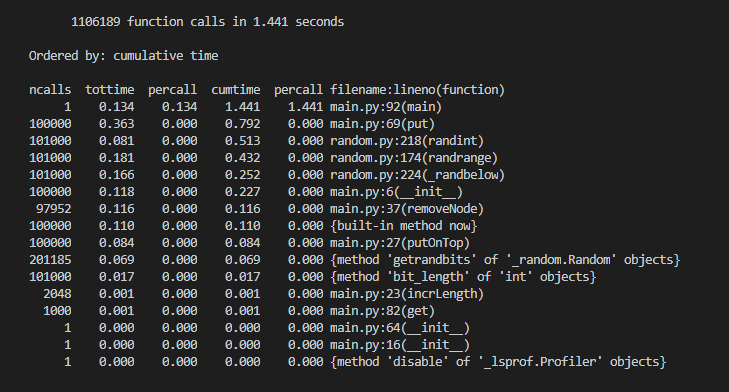
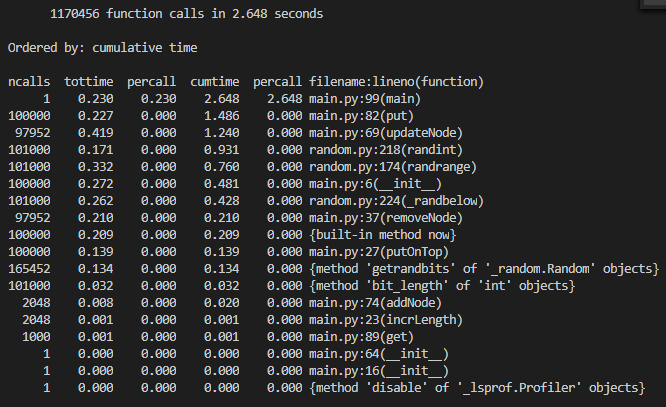
finish lru, i guess

Changed region(s): [[0.0, 0.1837, 0.991, 0.9796], [0.0, 0.0, 0.4805, 0.1531], [0.961, 0.0, 1.0, 0.0306]]

diff --git a/_site/work/2019/07/24/implement-cache-lru-lfu.html b/_site/work/2019/07/24/implement-cache-lru-lfu.html
@@ -276,8 +276,10 @@ Với bảng phân tích như trên chúng ta dễ dàng chọn được cấu t
  <img src="/assets/img/blog/content/lru-code2.png" alt="Complicated process" />
 <img src="/assets/img/blog/content/lru-code3.PNG" alt="Complicated process" /></p>
 
-<h5> <u>Đánh giá:</u></h5>
-<p>Mình sẽ so sánh kết quả với implemet LRU chỉ bằng priority heap. Sử dụng thư viện <b>cProfile</b> và 100000 hành động put, 1000 hành động get như sau:
+<h5> <u>Đánh giá với implement bằng priority heap:</u></h5>
+<p>Sử dụng thư viện <b>cProfile</b> để đánh giá hiệu năng.<br />
+Cache chứa được 2048 phần tử, giá trị random từ 1 đến 5000, 100000 hành động put và 1000 hành động get.
+<br />
 <img src="/assets/img/blog/content/lru-compare.PNG" alt="Complicated process" />
 <br /><br />
 <u>HashTable + Double Linked List:</u>
@@ -289,7 +291,36 @@ Với bảng phân tích như trên chúng ta dễ dàng chọn được cấu t
 <br />
 <br />
 <img src="/assets/img/blog/content/lru-compare2.PNG" alt="Complicated process" /></p>
-<p> Bỏ thời gian thực hiện random một giá trị cho phần test. Để khách quan, chúng ta không lấy kết quả của hàm tìm kiếm vì với heap sẽ có O(n) ( vì giá trị tìm kiếm không phải là giá trị xây dựng heap ), mà chỉ so sánh thời gian thực hiện hàm xóa và duy trì tính đúng của heap.</p>
+<p> Bỏ thời gian thực hiện random một giá trị cho phần test và các hàm khởi tạo khác. Để khách quan, chúng ta không xét thời gian của hàm tìm kiếm vì với heap sẽ có O(n) ( vì giá trị tìm kiếm không phải là giá trị xây dựng heap ), mà chỉ so sánh thời gian thực hiện hàm xóa và duy trì tính đúng của heap.</p>
+<table style="border-collapse: collapse;">
+  <tr>
+    <th style="border: 1px solid black;  text-align: left; padding:5px; width:50%">Action</th>
+    <th style="border: 1px solid black;  text-align: left; padding:5px;">Double Linked List + Hash map</th>
+    <th style="border: 1px solid black;  text-align: left; padding:5px;">Priority Heap</th>
+  </tr>
+  <tr>
+    <td style="border: 1px solid black;  text-align: left; padding:5px; width:50%">removeNode + Heapify(for Heap)</td>
+    <td style="border: 1px solid black;  text-align: left; padding:5px;">0.21</td>
+    <td style="border: 1px solid black;  text-align: left; padding:5px;">3.216</td>
+  </tr>
+  <tr>
+    <td style="border: 1px solid black;  text-align: left; padding:5px; width:50%">updateNode + Heapify(for Heap)</td>
+    <td style="border: 1px solid black;  text-align: left; padding:5px;">1.24 </td>
+    <td style="border: 1px solid black;  text-align: left; padding:5px;">0.639</td>
+  </tr>
+  <tr>
+    <td style="border: 1px solid black;  text-align: left; padding:5px; width:50%">addNode</td>
+    <td style="border: 1px solid black;  text-align: left; padding:5px;">0.02</td>
+    <td style="border: 1px solid black;  text-align: left; padding:5px;">0.008</td>
+  </tr>
+   <tr>
+    <td style="border: 1px solid black;  text-align: left; padding:5px; width:50%">Heapify</td>
+    <td style="border: 1px solid black;  text-align: left; padding:5px;">0</td>
+    <td style="border: 1px solid black;  text-align: left; padding:5px;">3.670</td>
+  </tr>
+</table>
+<p><br />
+Heapify có độc phức tạp là O(logn). Vậy nên khi so sánh update và remove với HashMap + Double Linked List có O(1) thì thời gian chênh nhau khá lớn. Chỉ tính riêng Heapify đã chiếm thời gian nhiều nhất. Ở bài tiếp theo tôi sẽ giới thiệu <b> Least Frequently Used</b>.</p>
 
             </div>
             <div class="single-blog-bottom fix">

diff --git a/_posts/2019-07-24-implement-cache-lru-lfu.md b/_posts/2019-07-24-implement-cache-lru-lfu.md
@@ -94,8 +94,10 @@ Với bảng phân tích như trên chúng ta dễ dàng chọn được cấu t
  ![Complicated process](/assets/img/blog/content/lru-code2.png)
 ![Complicated process](/assets/img/blog/content/lru-code3.PNG)
 
-<h5> <u>Đánh giá:</u></h5>
-Mình sẽ so sánh kết quả với implemet LRU chỉ bằng priority heap. Sử dụng thư viện <b>cProfile</b> và 100000 hành động put, 1000 hành động get như sau:
+<h5> <u>Đánh giá với implement bằng priority heap:</u></h5>
+Sử dụng thư viện <b>cProfile</b> để đánh giá hiệu năng.<br>
+Cache chứa được 2048 phần tử, giá trị random từ 1 đến 5000, 100000 hành động put và 1000 hành động get.
+<br>
 ![Complicated process](/assets/img/blog/content/lru-compare.PNG)
 <br><br>
 <u>HashTable + Double Linked List:</u>
@@ -107,4 +109,33 @@ Mình sẽ so sánh kết quả với implemet LRU chỉ bằng priority heap. S
 <br>
 <br>
 ![Complicated process](/assets/img/blog/content/lru-compare2.PNG)
-<p> Bỏ thời gian thực hiện random một giá trị cho phần test. Để khách quan, chúng ta không lấy kết quả của hàm tìm kiếm vì với heap sẽ có O(n) ( vì giá trị tìm kiếm không phải là giá trị xây dựng heap ), mà chỉ so sánh thời gian thực hiện hàm xóa và duy trì tính đúng của heap.</p>
+<p> Bỏ thời gian thực hiện random một giá trị cho phần test và các hàm khởi tạo khác. Để khách quan, chúng ta không xét thời gian của hàm tìm kiếm vì với heap sẽ có O(n) ( vì giá trị tìm kiếm không phải là giá trị xây dựng heap ), mà chỉ so sánh thời gian thực hiện hàm xóa và duy trì tính đúng của heap.</p>
+<table style="border-collapse: collapse;">
+  <tr >
+    <th style="border: 1px solid black;  text-align: left; padding:5px; width:50%">Action</th>
+    <th style="border: 1px solid black;  text-align: left; padding:5px;">Double Linked List + Hash map</th>
+    <th style="border: 1px solid black;  text-align: left; padding:5px;">Priority Heap</th>
+  </tr>
+  <tr>
+    <td style="border: 1px solid black;  text-align: left; padding:5px; width:50%">removeNode + Heapify(for Heap)</td>
+    <td style="border: 1px solid black;  text-align: left; padding:5px;">0.21</td>
+    <td style="border: 1px solid black;  text-align: left; padding:5px;">3.216</td>
+  </tr>
+  <tr>
+    <td style="border: 1px solid black;  text-align: left; padding:5px; width:50%">updateNode + Heapify(for Heap)</td>
+    <td style="border: 1px solid black;  text-align: left; padding:5px;">1.24 </td>
+    <td style="border: 1px solid black;  text-align: left; padding:5px;">0.639</td>
+  </tr>
+  <tr>
+    <td style="border: 1px solid black;  text-align: left; padding:5px; width:50%">addNode</td>
+    <td style="border: 1px solid black;  text-align: left; padding:5px;">0.02</td>
+    <td style="border: 1px solid black;  text-align: left; padding:5px;">0.008</td>
+  </tr>
+   <tr>
+    <td style="border: 1px solid black;  text-align: left; padding:5px; width:50%">Heapify</td>
+    <td style="border: 1px solid black;  text-align: left; padding:5px;">0</td>
+    <td style="border: 1px solid black;  text-align: left; padding:5px;">3.670</td>
+  </tr>
+</table>
+<br>
+Heapify có độc phức tạp là O(logn). Vậy nên khi so sánh update và remove với HashMap + Double Linked List có O(1) thì thời gian chênh nhau khá lớn. Chỉ tính riêng Heapify đã chiếm thời gian nhiều nhất. Ở bài tiếp theo tôi sẽ giới thiệu <b> Least Frequently Used</b>.
